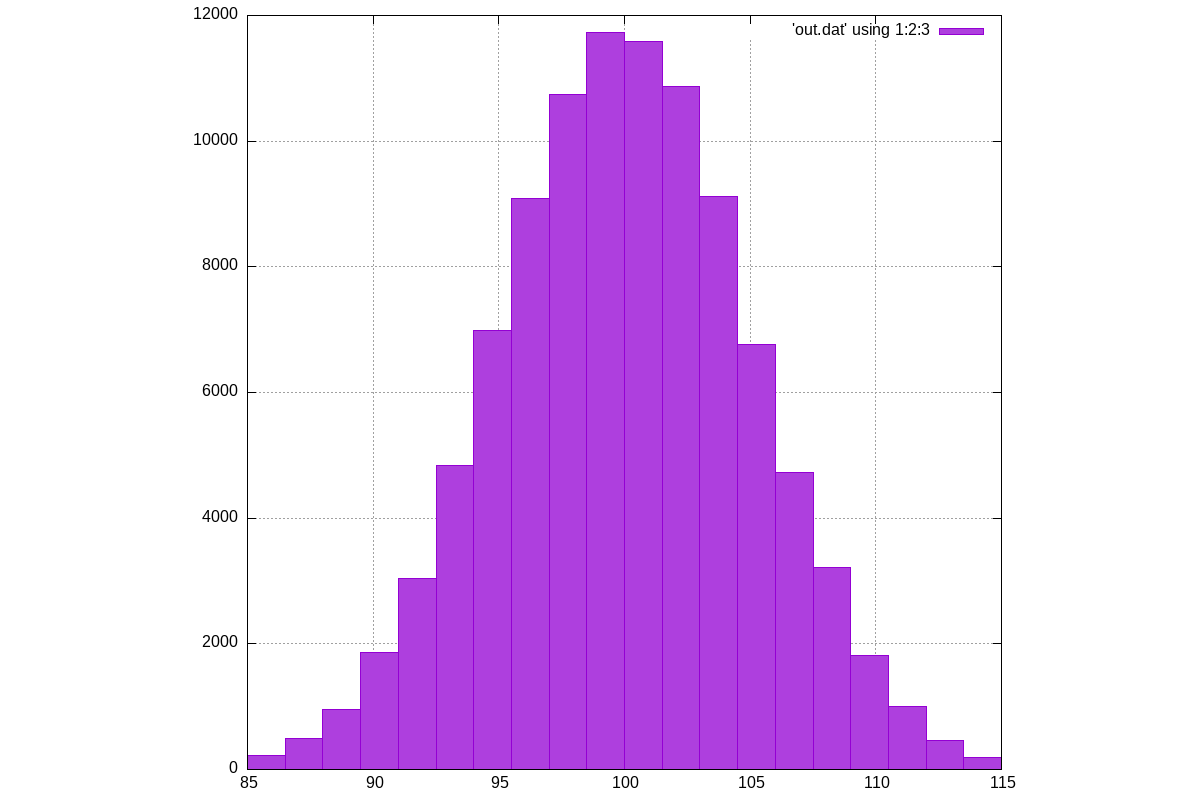
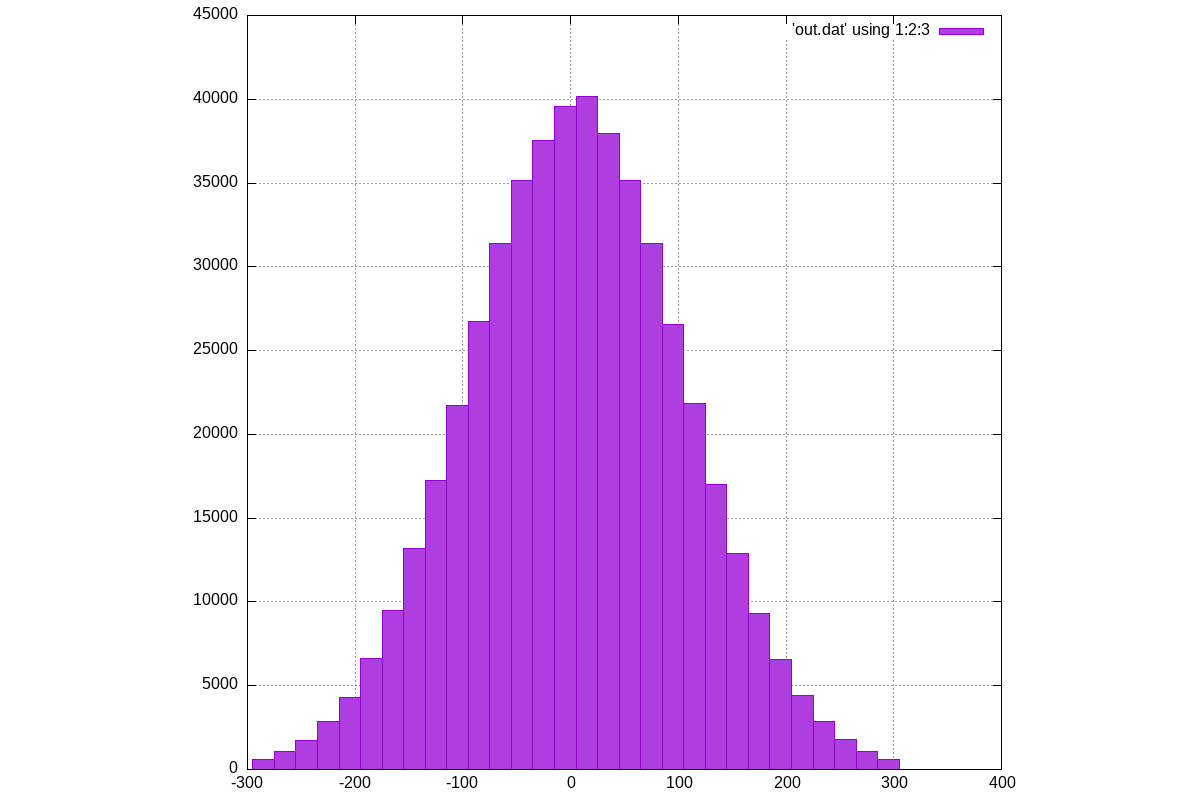
Оценка погрешности

diff --git a/gauss/gauss.cpp b/gauss/gauss.cpp
@@ -34,9 +34,10 @@ vector<double> gauss(double mean, double dev, int n) {
     cerr << "generation finished... \n";
     return values;
 }
+
+
  
- 
-int histogram(const vector<double>& gen, double minVal, double maxVal, int cols) {
+int histogram(const vector<double>& gen, double minVal, double maxVal, int cols, double mean, double dev) {
     vector<int> height(cols, 0);
     double range = maxVal - minVal;
     int before = 0, after = 0;
@@ -52,12 +53,40 @@ int histogram(const vector<double>& gen, double minVal, double maxVal, int cols)
             height[bin]++;
         }
     }
-
+    double centersX[cols];
+    
+    double devError, meanError, sum1, sum2;
+    sum1 = 0; //выборочное среднее
+    sum2 = 0; //выборочное значение стандартного отклонения
+    
+    int n = gen.size();
+    
     double binWidth = range / cols;
+    
     for (int i = 0; i < cols; i++) {
-        double centerX = minVal + binWidth * (i + 0.5);
-        printf("%f\t%d\t%f\n", centerX, height[i], binWidth);
+        centersX[i] = minVal + binWidth * (i + 0.5);
+        
+        printf("%f\t%d\t%f\n", centersX[i], height[i], binWidth);
     }
+    // погрешности
+    for (int i = 0; i < n; i++) {
+        sum1 += gen[i];
+    }
+    sum1 /= n;
+    
+    for (int i = 0; i < n; i++) {
+        sum2 += (gen[i] - sum1) * (gen[i] - sum1);
+    }
+    sum2 /= n - 1.0;
+    sum2 = sqrt(sum2);
+    
+    if (abs(mean) < 0.001)
+       cerr << abs(sum1 - mean) << " - абсолютная погрешность";
+    else 
+        cerr << "Погрешность на выборочное среднеее в %: " << (abs(sum1 - mean) * 100) / mean;
+        
+    devError = (abs(sum2 - dev) * 100) / dev;
+    cerr << "\nПогрешность на выборочное стандратное отклонение в %: " << devError << "\n";
     
     if (before + after > 0)
         printf("# values outside range: <%g (%d), >=%g (%d)\n", 
@@ -66,13 +95,11 @@ int histogram(const vector<double>& gen, double minVal, double maxVal, int cols)
     return 0;
 }
 
-
-
 int main() {
     srand(static_cast<unsigned>(time(NULL)));
     
-    int n;
     double mean, dev;
+    int n;
     
     cerr << "Введите количество значений: "; cin >> n;
     cerr << "Введите mean: "; cin >> mean;
@@ -85,9 +112,9 @@ int main() {
     double minVal = mean - 3 * dev;
     double maxVal = mean + 3 * dev;
     
-    cerr << "creating histogram (range: [" << minVal << ", " << maxVal << "])... \n";
+    cerr << "creating histogram (range: [" << minVal << ", " << maxVal << "])... \n\n";
     
-    histogram(values, minVal, maxVal, 30);
+    histogram(values, minVal, maxVal, 30, mean, dev);
     
     cerr << "End.. \n";
     return 0;
